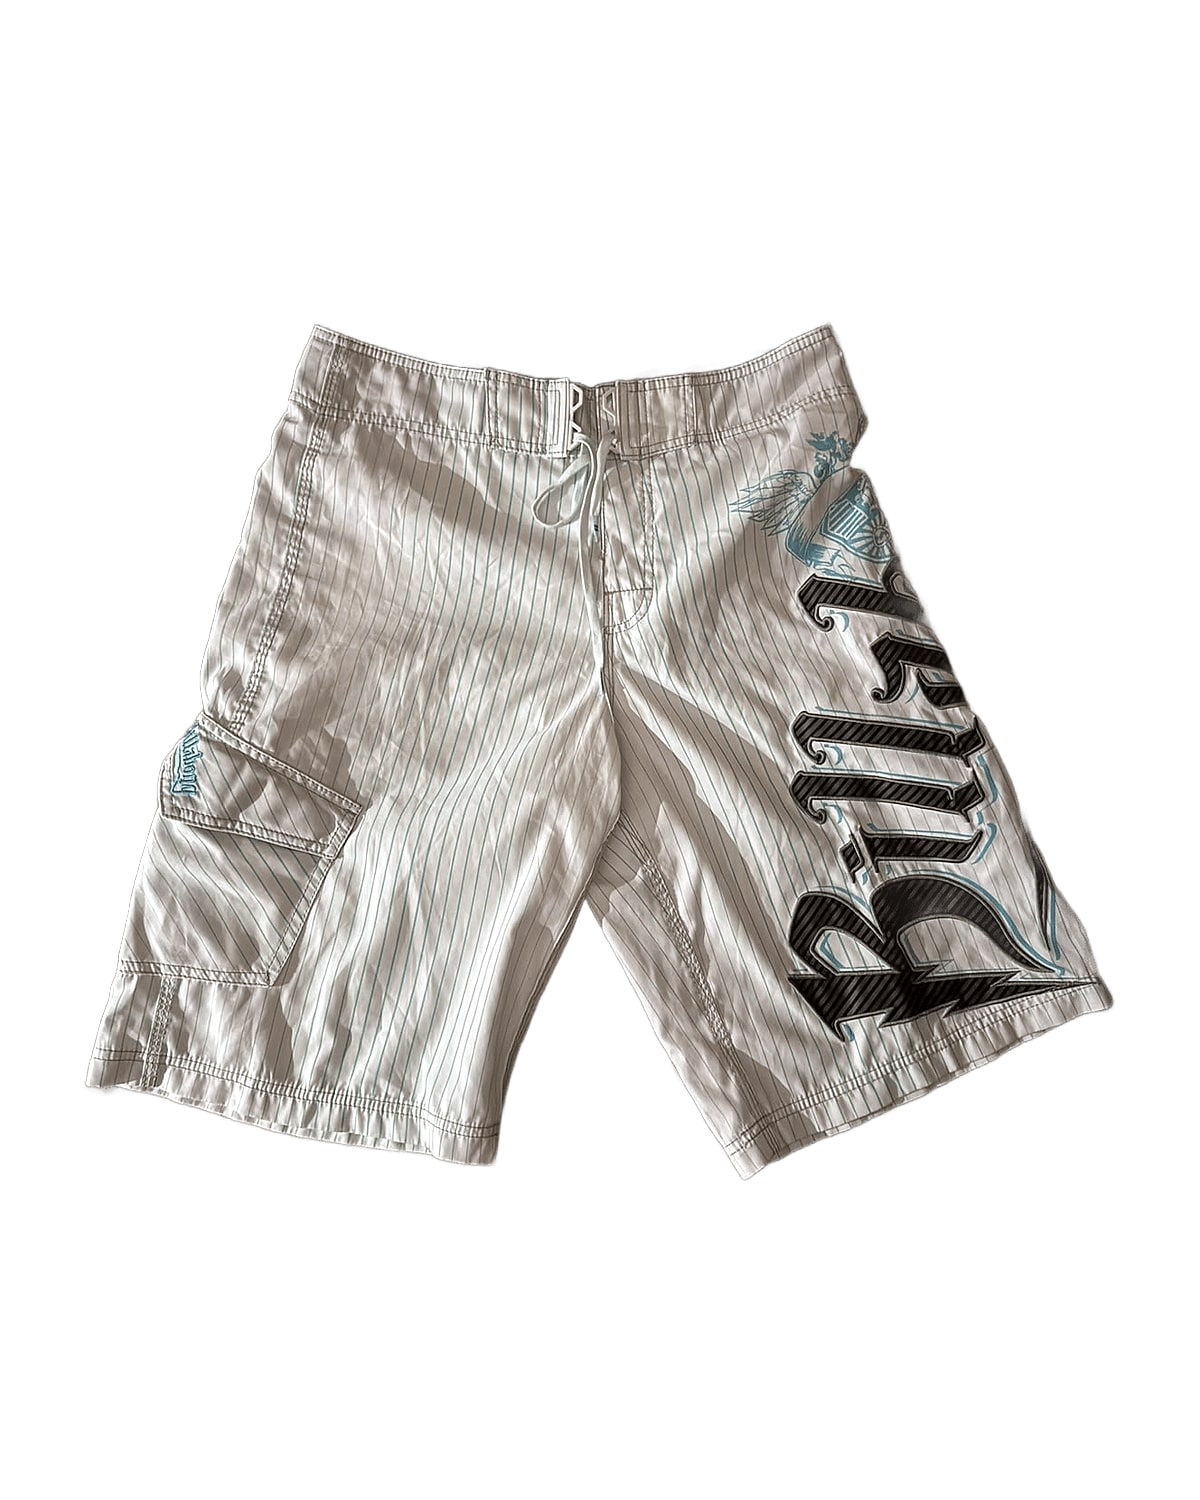
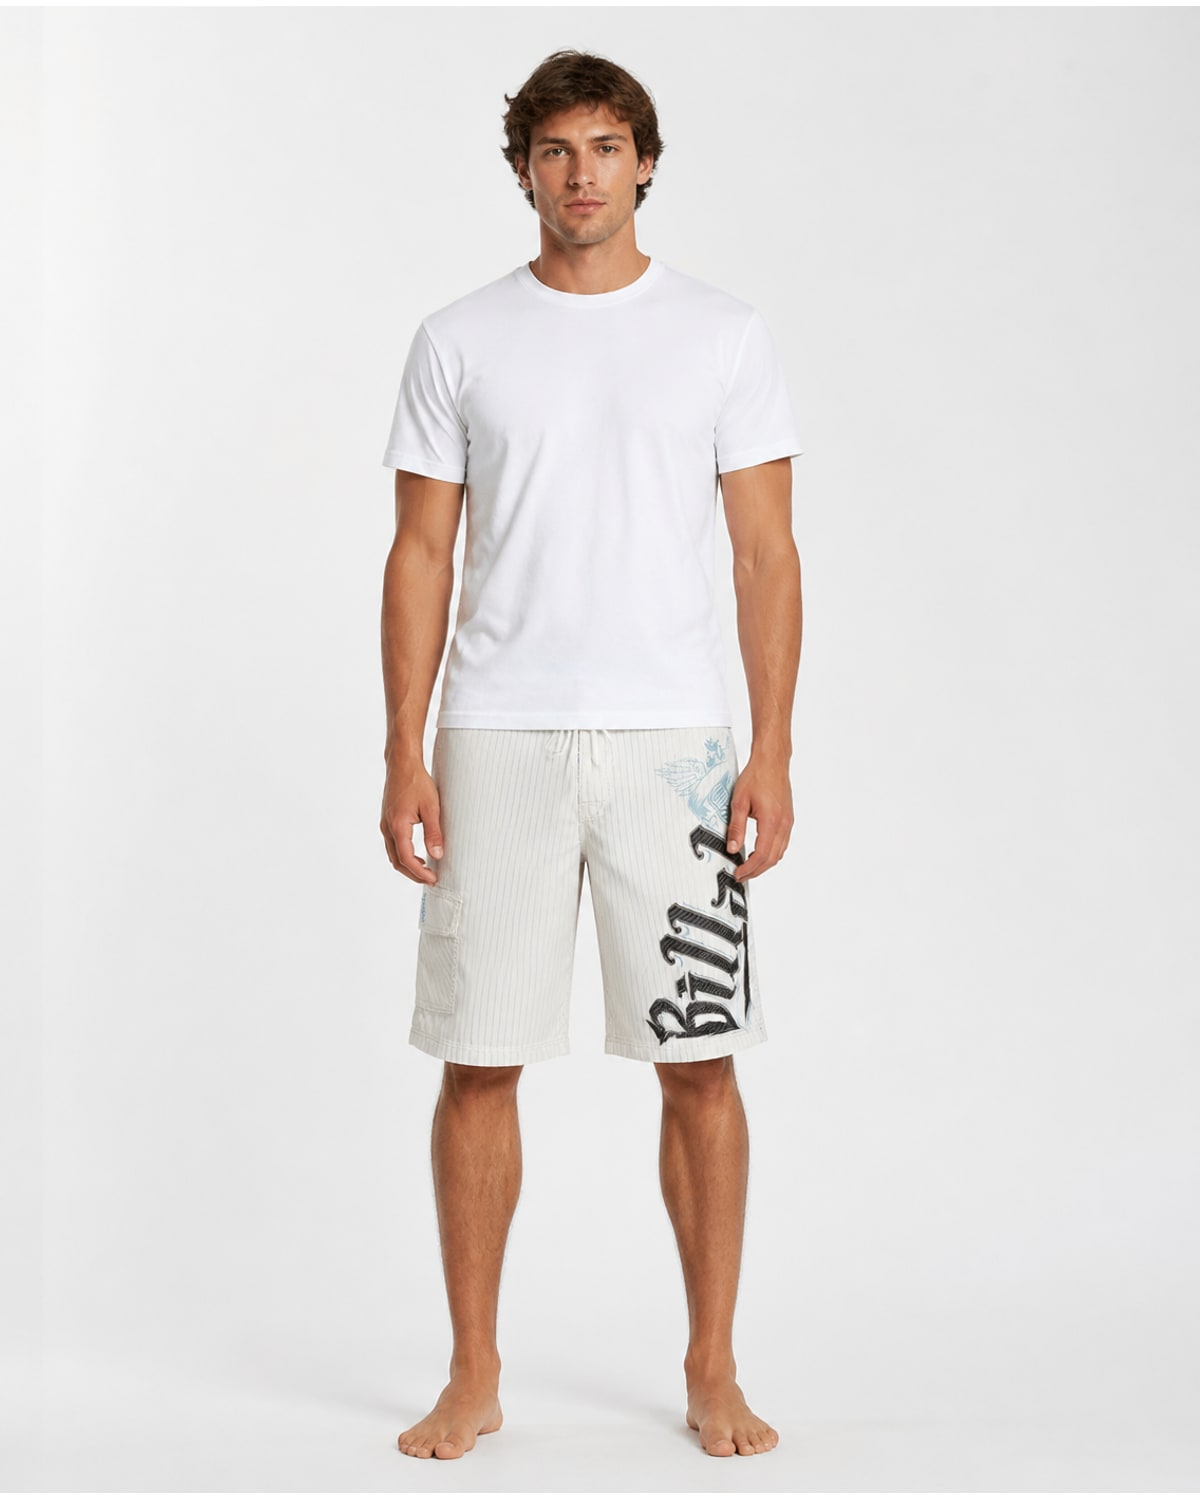
Shop cards: swipe through all photos; Billabong model photos; AI-photo note on both pairs

diff --git a/website/src/i18n/ui.ts b/website/src/i18n/ui.ts
@@ -38,6 +38,8 @@ const de = {
 	'shop.categories': 'Kategorien',
 	'shop.noMatch': 'Nichts in dieser Grösse. Versuch eine andere.',
 	'shop.sold': 'Verkauft',
+	'shop.prevPhoto': 'Vorheriges Foto',
+	'shop.nextPhoto': 'Nächstes Foto',
 	'shop.condition': 'Zustand',
 	'shop.brand': 'Marke',
 	'shop.measurements': 'Masse',
@@ -167,6 +169,8 @@ const fr: Partial<Record<UiKey, string>> = {
 	'shop.categories': 'Catégories',
 	'shop.noMatch': 'Rien dans cette taille. Essaie une autre.',
 	'shop.sold': 'Vendu',
+	'shop.prevPhoto': 'Photo précédente',
+	'shop.nextPhoto': 'Photo suivante',
 	'shop.condition': 'État',
 	'shop.brand': 'Marque',
 	'shop.measurements': 'Mesures',
@@ -291,6 +295,8 @@ const it: Partial<Record<UiKey, string>> = {
 	'shop.categories': 'Categorie',
 	'shop.noMatch': 'Niente in questa taglia. Provane un’altra.',
 	'shop.sold': 'Venduto',
+	'shop.prevPhoto': 'Foto precedente',
+	'shop.nextPhoto': 'Foto successiva',
 	'shop.condition': 'Stato',
 	'shop.brand': 'Marca',
 	'shop.measurements': 'Misure',
@@ -415,6 +421,8 @@ const en: Partial<Record<UiKey, string>> = {
 	'shop.categories': 'Categories',
 	'shop.noMatch': 'Nothing in this size. Try another one.',
 	'shop.sold': 'Sold',
+	'shop.prevPhoto': 'Previous photo',
+	'shop.nextPhoto': 'Next photo',
 	'shop.condition': 'Condition',
 	'shop.brand': 'Brand',
 	'shop.measurements': 'Measurements',

diff --git a/website/src/content/products/0007-billabong-boardshorts/index.md b/website/src/content/products/0007-billabong-boardshorts/index.md
@@ -7,12 +7,14 @@ sizeNote: "W32"
 condition: good
 price: 35
 description:
-  de: "Weiss mit türkisen Nadelstreifen, grossem Billabong-Schriftzug und türkisem Print am Bein, Cargotasche. Schnürung vorne."
-  fr: "Blanc à fines rayures turquoise, grand logo Billabong et motif turquoise sur la jambe, poche cargo. Laçage devant."
-  it: "Bianco con gessato turchese, grande scritta Billabong e stampa turchese sulla gamba, tasca cargo. Laccio davanti."
-  en: "White with turquoise pinstripes, a big Billabong script and turquoise print down the leg, cargo pocket. Lace-up front."
+  de: "Weiss mit türkisen Nadelstreifen, grossem Billabong-Schriftzug und türkisem Print am Bein, Cargotasche. Schnürung vorne. Die Fotos mit Model sind KI-generierte Illustrationen; Foto 3 und 4 zeigen das echte Teil."
+  fr: "Blanc à fines rayures turquoise, grand logo Billabong et motif turquoise sur la jambe, poche cargo. Laçage devant. Les photos portées sont des illustrations générées par IA ; les photos 3 et 4 montrent la vraie pièce."
+  it: "Bianco con gessato turchese, grande scritta Billabong e stampa turchese sulla gamba, tasca cargo. Laccio davanti. Le foto indossate sono illustrazioni generate con l’IA; le foto 3 e 4 mostrano il capo reale."
+  en: "White with turquoise pinstripes, a big Billabong script and turquoise print down the leg, cargo pocket. Lace-up front. The model photos are AI-generated illustrations; photos 3 and 4 show the actual piece."
 photos:
   - ./1.jpg
   - ./2.jpg
+  - ./3.jpg
+  - ./4.jpg
 drop: 1
 ---

diff --git a/website/src/content/products/0005-ripcurl-boardshorts/index.md b/website/src/content/products/0005-ripcurl-boardshorts/index.md
@@ -7,10 +7,10 @@ sizeNote: "W32"
 condition: good
 price: 35
 description:
-  de: "Kräftiges Blau mit schwarzen Seitenstreifen, weissen Paspeln und grossem gesticktem Rip-Curl-Schriftzug hinten. Schnürung vorne."
-  fr: "Bleu vif avec bandes latérales noires, passepoils blancs et grand logo Rip Curl brodé au dos. Laçage devant."
-  it: "Blu intenso con bande laterali nere, profili bianchi e grande scritta Rip Curl ricamata sul retro. Laccio davanti."
-  en: "Bright blue with black side panels, white piping and a big embroidered Rip Curl script on the back. Lace-up front."
+  de: "Kräftiges Blau mit schwarzen Seitenstreifen, weissen Paspeln und grossem gesticktem Rip-Curl-Schriftzug hinten. Schnürung vorne. Die Fotos mit Model sind KI-generierte Illustrationen; Foto 3 und 4 zeigen das echte Teil."
+  fr: "Bleu vif avec bandes latérales noires, passepoils blancs et grand logo Rip Curl brodé au dos. Laçage devant. Les photos portées sont des illustrations générées par IA ; les photos 3 et 4 montrent la vraie pièce."
+  it: "Blu intenso con bande laterali nere, profili bianchi e grande scritta Rip Curl ricamata sul retro. Laccio davanti. Le foto indossate sono illustrazioni generate con l’IA; le foto 3 e 4 mostrano il capo reale."
+  en: "Bright blue with black side panels, white piping and a big embroidered Rip Curl script on the back. Lace-up front. The model photos are AI-generated illustrations; photos 3 and 4 show the actual piece."
 photos:
   - ./1.jpg
   - ./2.jpg
